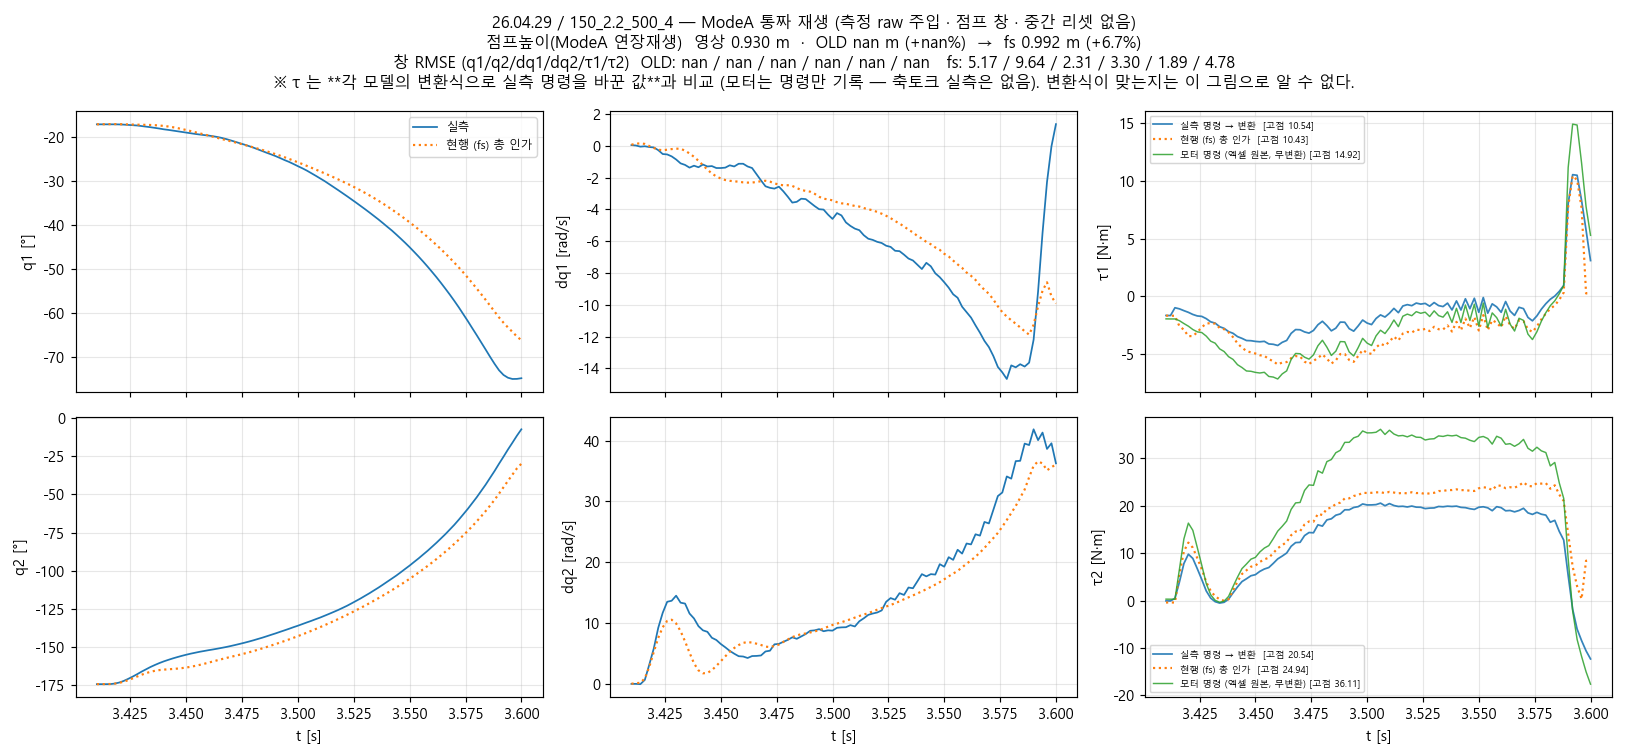
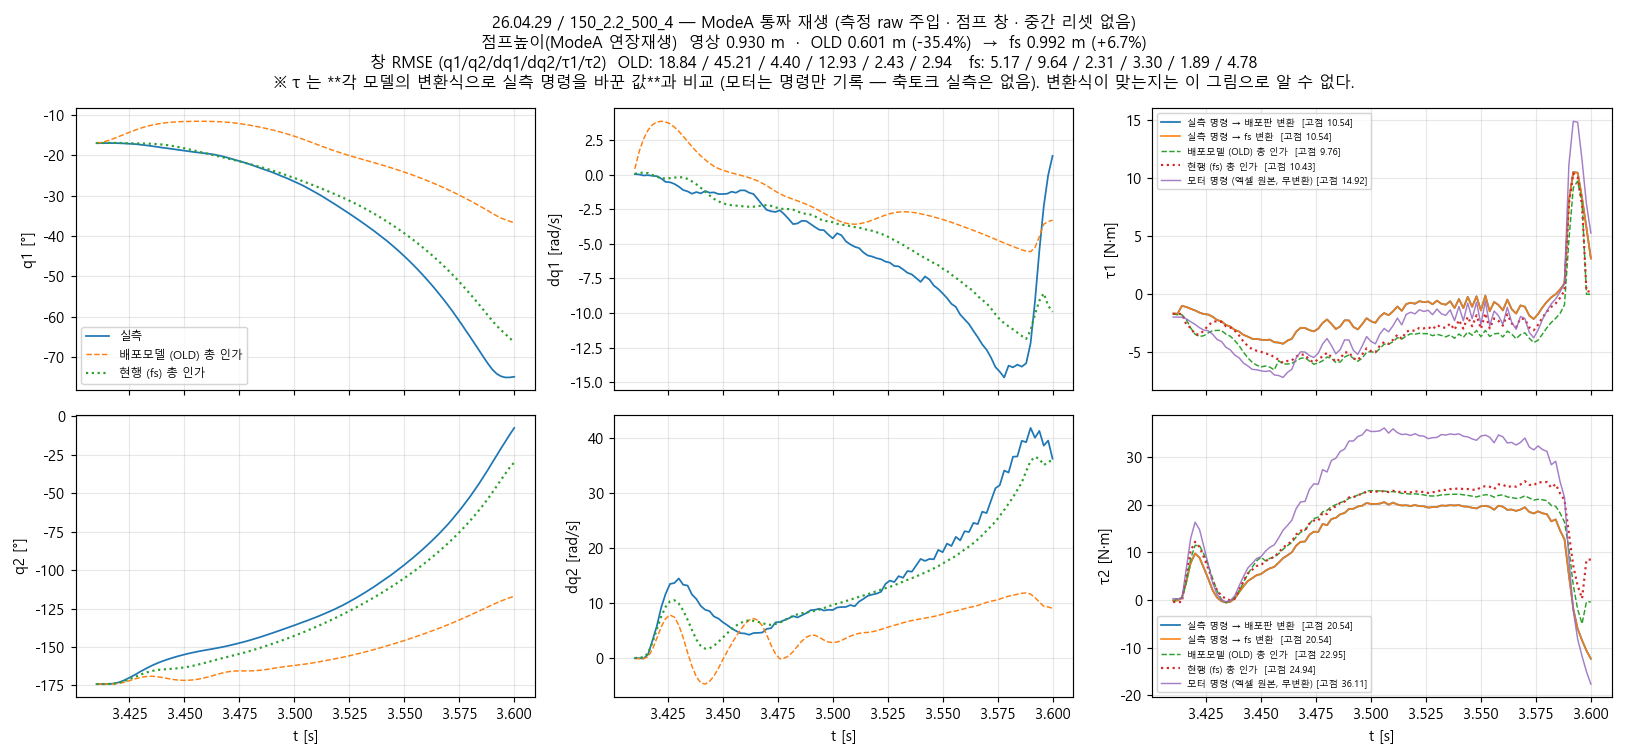
비교 그림: 0429 도 다른 세션과 **똑같은 3자 비교**로 (사용자 지적 08-16 재수정)
직전 커밋에서 변속 세션만 배포모델 곡선을 뺐다 — 0429 만 곡선 하나가 없어
다른 날과 형태가 달라졌다. 기준을 벗어난 것이고, 판단도 틀렸다.

배포모델은 무릎 직결 5관절이라 4절 링크가 없다. 그래서 막대 길이를 바꿀 대상이
없고 — **바꿀 필요도 없다.** 그냥 그대로 돌리면 된다. fs_cvt_plot.py 가 0429 에
대해 이미 같은 방식으로 배포모델을 돌리고 있었다. 배포모델이 변속을 못 담는 것은
그 모델의 성질이지, 그리지 못할 이유가 아니다.

이제 전 세션이 동일하게 "실측 vs 배포모델 vs 현행" 3자 비교다.

숨어 있던 것 (오차 ÷ 그 신호가 창에서 움직인 폭 · 0 이 완벽):
  측정토크 주입 재생  무릎각 46.05 -> 9.13 · 힙각 19.04 -> 4.81
  PD 제어 흉내        무릎각 25.58 -> 2.23 · 힙각  9.07 -> 1.44
전 세션 통틀어 가장 큰 개선폭인데 그림에 없어 아무도 못 봤다.
단 측정토크 주입 재생의 무릎 토크만 3.05 -> 4.22 로 악화 — 별도 확인 필요.

Claude-Session: https://claude.ai/code/session_01PFCTSwAVUirG99naodJ3Kh

diff --git a/code/goal23_fullspan/fs_compare_plot.py b/code/goal23_fullspan/fs_compare_plot.py
@@ -721,23 +721,23 @@ def main():
         #   아래 일어서기 가지는 이미 같은 방식으로 trial 별 모델을 만들고 있다.
         #   막대 길이는 trial 마다 Clutch 실측이므로 **trial 단위로** 모델을 새로 만든다.
         ft_t = FC.cvt_ft(float(FD.cvt_li(p)), ft_base=FR.fs_twin()) if cvt else None
-        # ★ 변속 세션에서는 **옛 모델 곡선을 그리지 않는다** (show_old=False).
-        #   옛 모델(FMET.tw0)은 무릎을 직결로 보는 5관절 구조라 4절 링크 자체가 없다.
-        #   막대 길이를 바꿀 대상이 없으니 변속판을 만들 수 없고, 그대로 그리면
-        #   평행사변형(무변속) 곡선을 '변속 세션의 옛 모델'인 양 보여 주게 된다.
-        #   → 변속 세션은 "실측 vs 현행" 만 그린다. 이것이 구 코드가 통째로 건너뛴 진짜 이유다.
-        _old_ok = not cvt
+        # ★ 옛 모델 곡선은 **변속 세션에서도 그대로 그린다** — 모든 세션이 같은 형태여야 한다.
+        #   (08-16 사용자 지적: 0429만 곡선 하나가 빠져 다른 날과 다르게 나왔다.)
+        #   옛 모델은 무릎을 직결로 보는 5관절 구조라 4절 링크가 없다. 그래서 막대 길이를
+        #   바꿀 대상이 아예 없고 — 바꿀 필요도 없다. 그냥 그대로 돌리면 된다.
+        #   `fs_cvt_plot.py` 가 0429 에 대해 이미 같은 방식으로 옛 모델을 돌리고 있다.
+        #   옛 모델이 변속을 못 담는 것은 그 모델의 성질이지 그리지 못할 이유가 아니다.
         # ★ held-out 은 **fit 금지**이지 평가 금지가 아니다 (철칙 9).
         #   승격 판단엔 게이트 세션의 CL 비악화도 봐야 하므로 FS_CMP_HO=1 로 포함시킨다.
         _ho_ok = (not ho) or os.environ.get("FS_CMP_HO") == "1"
         # ★ ModeA 를 **먼저** 돌린다 — 점프높이는 ModeA 연장재생에서만 나오고(정본 정의),
         #   CL 제목도 그 값을 쓰기 때문이다 (사용자 지시: 제목에 점프높이).
         if want in ("BOTH", "MA", "CL"):
-            r = plot_ma(s, p.name, d, seg, ft=ft_t, show_old=_old_ok)
+            r = plot_ma(s, p.name, d, seg, ft=ft_t)
             if r and want in ("BOTH", "MA"):
                 agg.setdefault(("ModeA", s), []).append(r)
         if want in ("BOTH", "CL") and _ho_ok and g:
-            r = plot_cl(s, p.name, d, seg, g, ft=ft_t, show_old=_old_ok)
+            r = plot_cl(s, p.name, d, seg, g, ft=ft_t)
             if r:
                 agg.setdefault(("CL", s), []).append(r)
         print(f"{s}/{p.name}: OK", flush=True)

diff --git a/code/goal23_fullspan/_compare_H8_260816/README.md b/code/goal23_fullspan/_compare_H8_260816/README.md
@@ -8,7 +8,7 @@
 |---|---|---|---|---|---|---|---|---|
 | CL | 26.04.21 | 6 | 3.94→1.01 | 11.66→1.09 | 1.61→0.53 | 4.75→0.59 | 2.72→0.96 | 6.02→1.33 |
 | CL | 26.04.24 | 9 | 1.29→0.86 | 1.07→1.14 | 0.67→0.64 | 1.27→0.93 | 1.98→1.33 | 3.13→3.19 |
-| CL | 26.04.29 | 10 | nan→1.44 | nan→2.23 | nan→1.13 | nan→3.10 | nan→2.17 | nan→4.42 |
+| CL | 26.04.29 | 10 | 9.07→1.44 | 25.58→2.23 | 4.00→1.13 | 7.48→3.10 | 5.54→2.17 | 10.64→4.42 |
 | CL | 26.06.02 | 6 | 0.68→0.73 | 2.72→1.48 | 0.66→0.68 | 2.20→1.00 | 2.01→1.35 | 4.89→3.46 |
 | CL | 26.07.22 | 5 | 6.37→1.19 | 3.50→3.62 | 2.93→1.09 | 2.69→2.13 | 2.40→2.31 | 3.83→5.24 |
 | CL | 26.07.23 | 3 | 7.49→2.76 | 3.33→1.45 | 3.03→1.40 | 2.44→0.98 | 3.34→2.85 | 3.40→3.39 |
@@ -18,7 +18,7 @@
 | ModeA | 26.03.24 | 3 | 4.55→5.17 | 13.00→15.00 | 2.29→1.93 | 4.14→4.58 | 1.64→1.62 | 3.81→4.10 |
 | ModeA | 26.04.21 | 6 | 4.35→2.19 | 4.51→3.79 | 0.89→0.81 | 1.51→1.56 | 1.56→1.49 | 2.75→2.81 |
 | ModeA | 26.04.24 | 9 | 4.52→3.28 | 7.63→5.65 | 1.23→1.27 | 2.54→2.37 | 1.76→1.72 | 3.24→3.34 |
-| ModeA | 26.04.29 | 10 | nan→4.81 | nan→9.13 | nan→1.97 | nan→3.36 | nan→1.75 | nan→4.22 |
+| ModeA | 26.04.29 | 10 | 19.04→4.81 | 46.05→9.13 | 3.95→1.97 | 11.75→3.36 | 2.22→1.75 | 3.05→4.22 |
 | ModeA | 26.06.02 | 6 | 2.72→1.01 | 3.36→2.32 | 1.37→1.20 | 1.88→2.25 | 1.87→1.78 | 3.27→3.34 |
 | ModeA | 26.07.22 | 5 | 5.97→3.49 | 3.21→2.53 | 2.81→2.14 | 2.86→2.52 | 1.84→1.76 | 3.22→3.14 |
 | ModeA | 26.07.23 | 3 | 7.72→4.34 | 3.13→2.28 | 2.31→1.78 | 1.74→1.88 | 1.68→1.61 | 2.85→2.94 |
